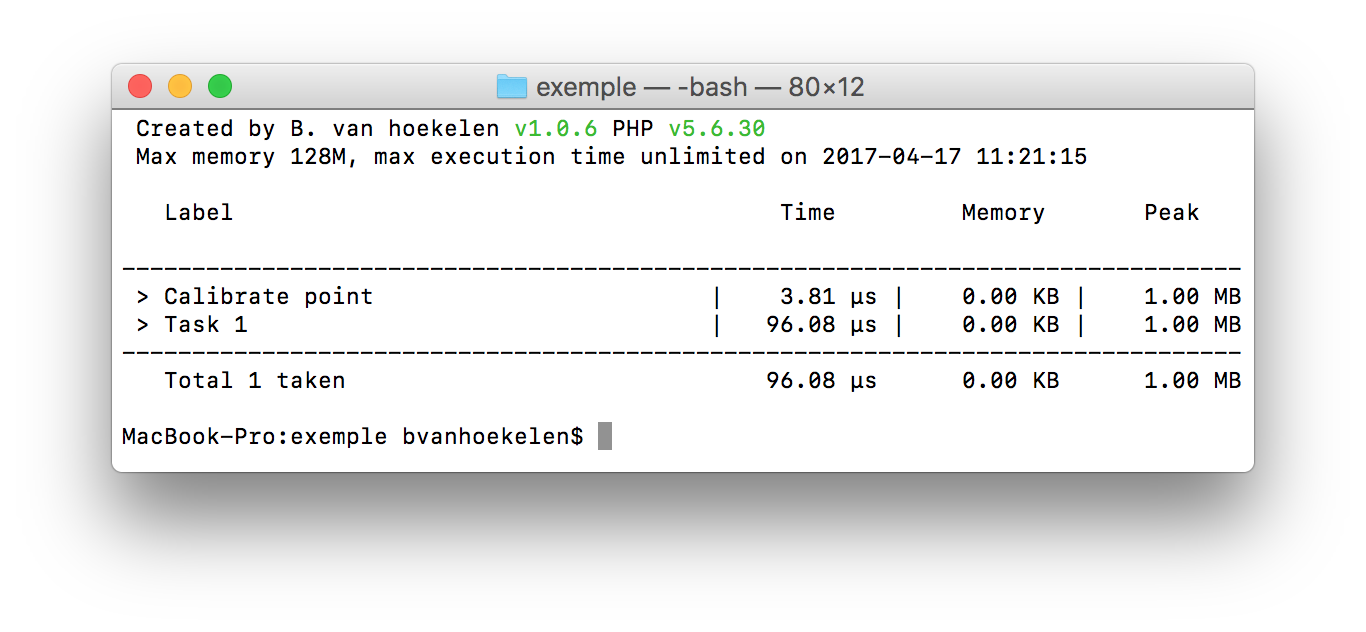
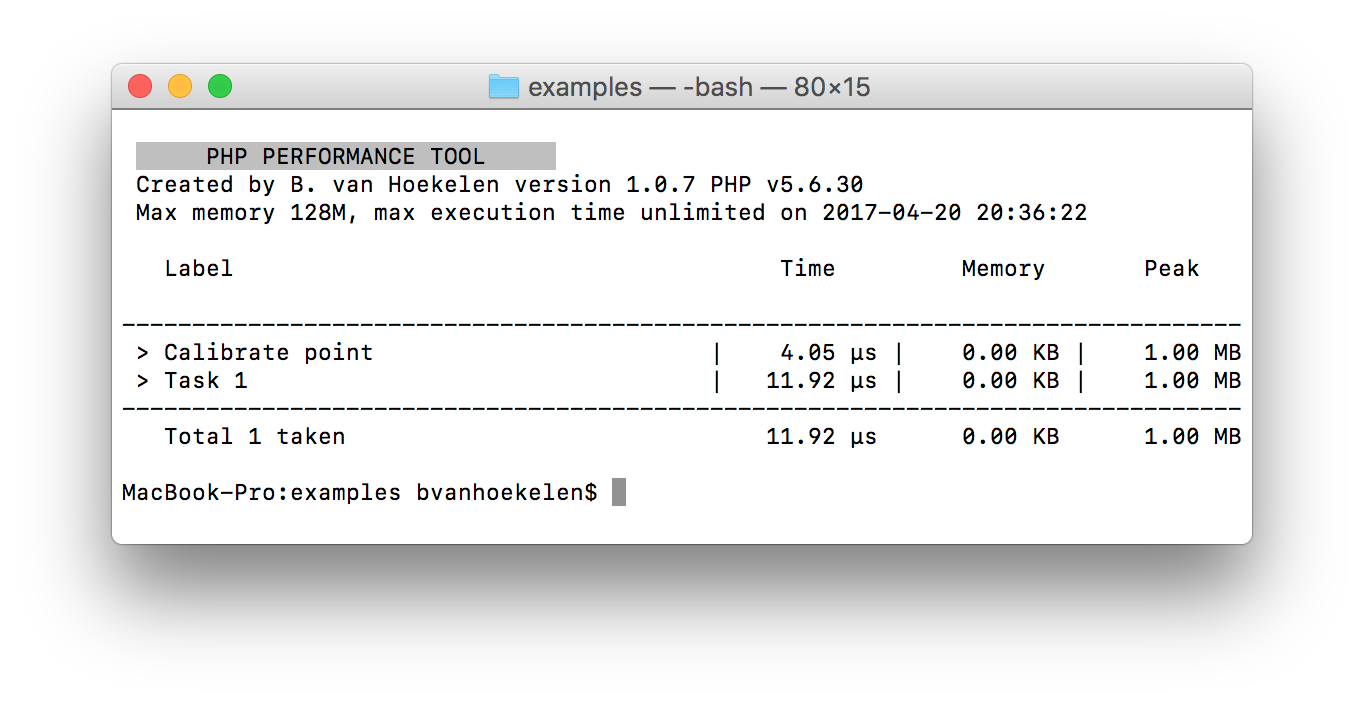
Update screenshots

diff --git a/screenschots/examples/config-with-mask.php b/screenschots/examples/config-with-mask.php
@@ -1,0 +1,71 @@
+<?php
+
+/*
+ * Require Performance
+ */
+
+require_once('../../vendor/autoload.php');
+use Performance\Performance;
+use Performance\Config;
+
+// Bootstrap class
+$foo = new Foo();
+
+class Foo
+{
+    public function __construct()
+    {
+        // You can specify the characters you want to strip
+//        Config::set(Config::POINT_LABEL_LTRIM, 'synchronize');
+//        Config::set(Config::POINT_LABEL_RTRIM, 'Run');
+
+        $this->synchronizeTaskARun();
+        $this->synchronizeTaskBRun();
+        $this->synchronizeTaskCRun();
+
+        // Finish all tasks and show test results
+        Performance::results();
+    }
+
+    public function synchronizeTaskARun()
+    {
+        // Set point Task A
+        Performance::point(__FUNCTION__);
+
+        //
+        // Run code
+        sleep(1);
+        //
+
+        // Finish point Task A
+        Performance::finish();
+    }
+
+    public function synchronizeTaskBRun()
+    {
+        // Set point Task B
+        Performance::point(__FUNCTION__);
+
+        //
+        // Run code
+        sleep(1);
+        //
+
+        // Finish point Task B
+        Performance::finish();
+    }
+
+    public function synchronizeTaskCRun()
+    {
+        // Set point Task C
+        Performance::point(__FUNCTION__);
+
+        //
+        // Run code
+        sleep(1);
+        //
+
+        // Finish point Task C
+        Performance::finish();
+    }
+}

diff --git a/screenschots/examples/php-performance-tool-command-line.php b/screenschots/examples/php-performance-tool-command-line.php
@@ -1,0 +1,62 @@
+<?php
+
+/*
+ * Require Performance
+ */
+
+require_once('../../vendor/autoload.php');
+use Performance\Performance;
+
+Performance::point();
+
+$a = [];
+for($x = 0; $x < 1000; $x++)
+{
+    $a[] = md5($x);
+}
+
+Performance::point();
+$a = [];
+for($x = 0; $x < 10100; $x++)
+{
+    $a[] = md5($x);
+}
+
+Performance::point();
+$a = [];
+for($x = 0; $x < 102100; $x++)
+{
+    $a[] = md5($x);
+}
+
+Performance::point();
+$a = [];
+for($x = 0; $x < 10400; $x++)
+{
+    $a[] = md5($x);
+}
+
+Performance::point();
+$a = [];
+for($x = 0; $x < 5000; $x++)
+{
+    $a[] = md5($x);
+}
+
+Performance::point();
+$a = [];
+for($x = 0; $x < 545000; $x++)
+{
+    $s = $x * 723 / 7239;
+    $a[] = md5($s);
+}
+
+Performance::point();
+$a = [];
+for($x = 0; $x < 10400; $x++)
+{
+    $a[] = md5($x);
+}
+
+// Finish all tasks and show test results
+Performance::results();

diff --git a/screenschots/examples/config-console-live.php b/screenschots/examples/config-console-live.php
@@ -1,0 +1,22 @@
+<?php
+
+/*
+ * Require Performance
+ */
+
+require_once('../../vendor/autoload.php');
+use Performance\Performance;
+
+/*
+ * One simply performance check
+ */
+Performance::point();
+
+// Run task A
+for($x = 0; $x < 100; $x++)
+{
+//    echo ".";
+}
+
+// Finish all tasks and show test results
+Performance::results();
